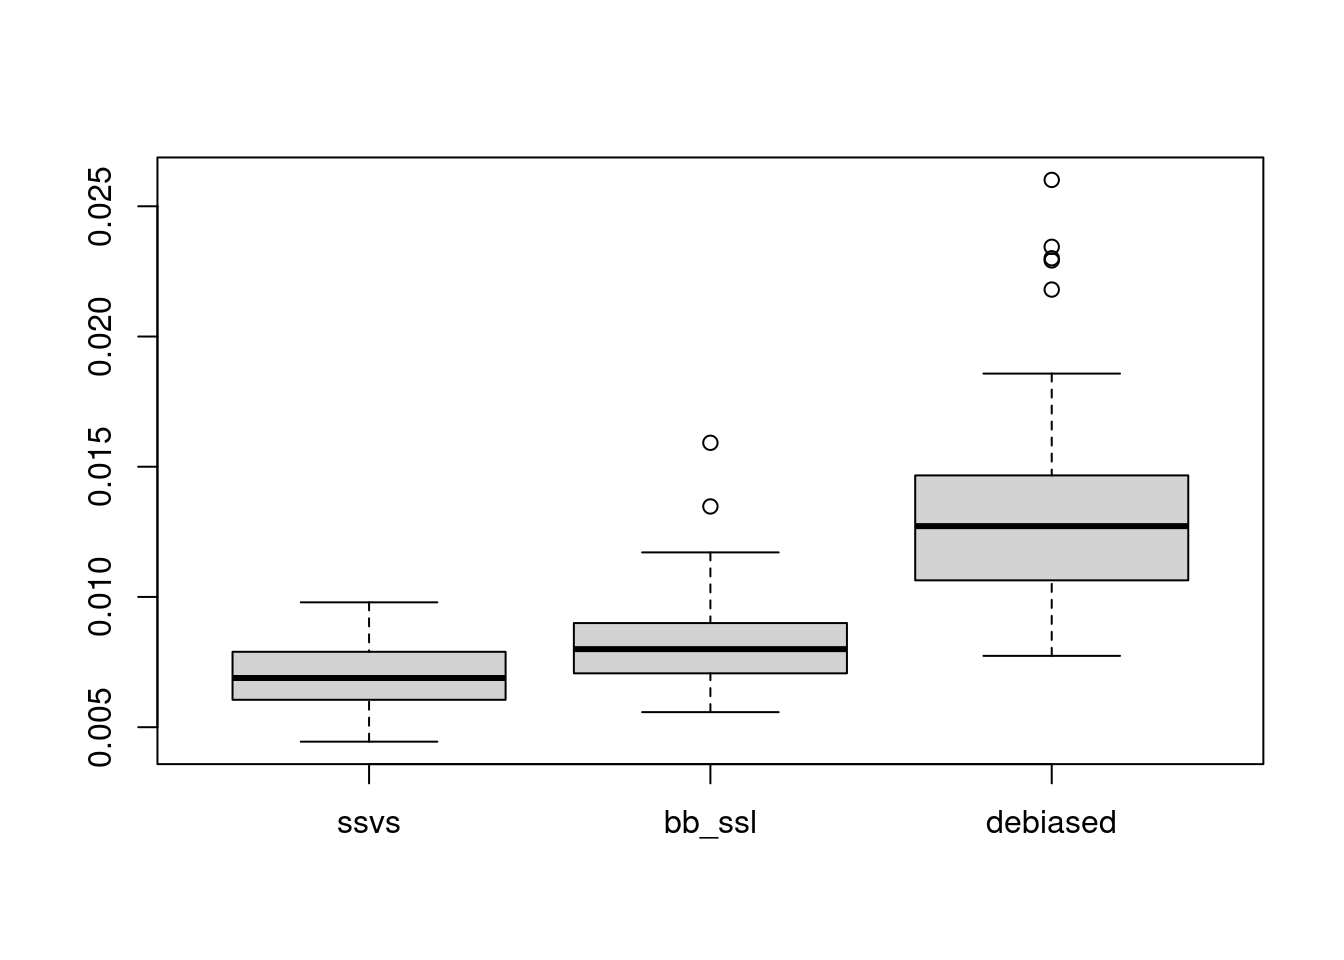
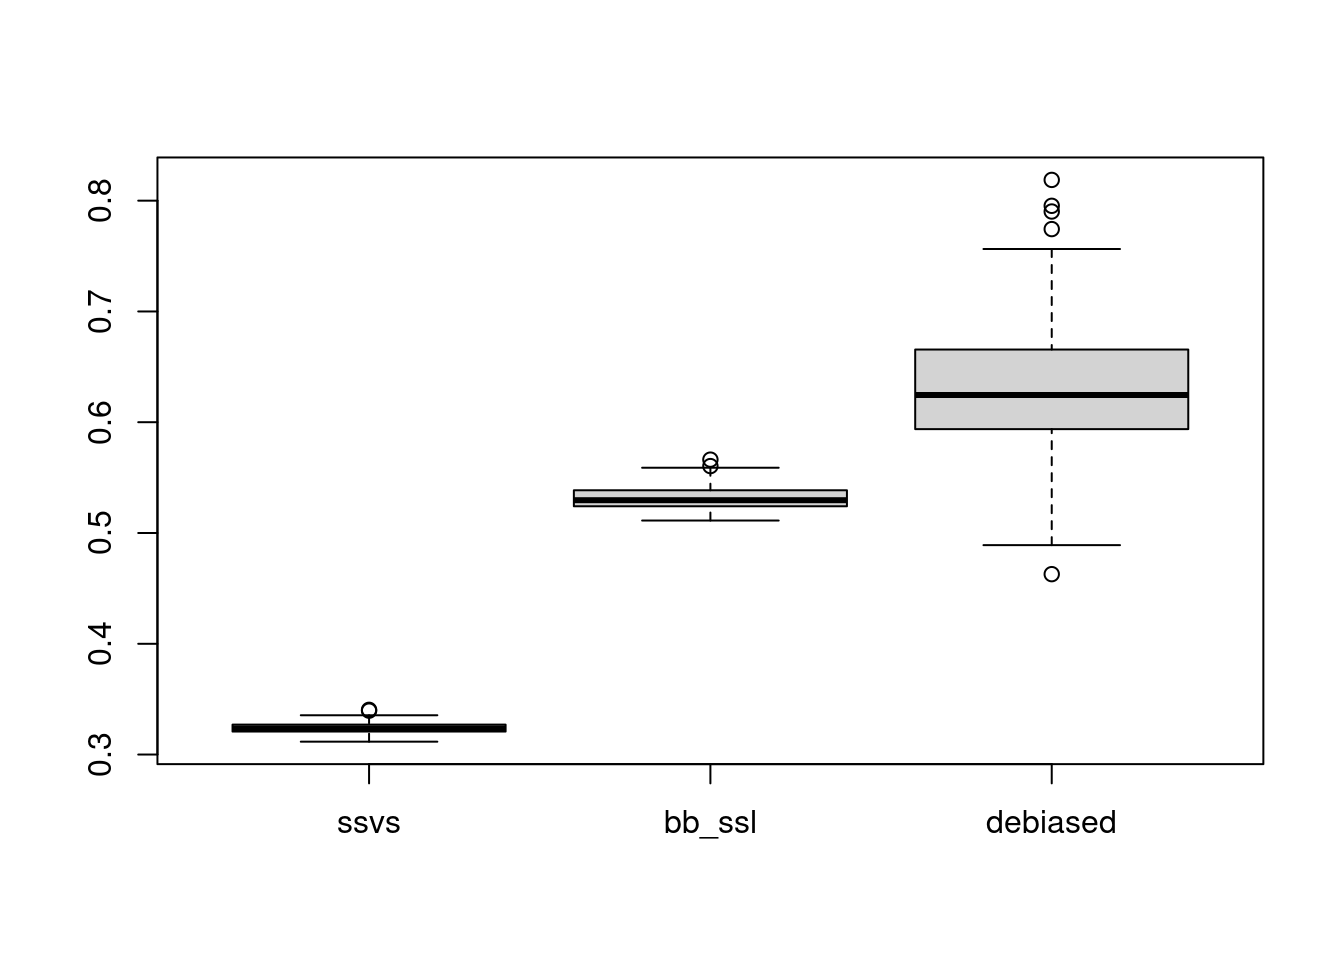
Build site.

diff --git a/docs/lfi_n100p100.html b/docs/lfi_n100p100.html
@@ -522,15 +522,15 @@ project makes it easier to run your code on other machines.</p>
 <div class="panel panel-default">
 <div class="panel-heading">
 <p class="panel-title">
-<a data-toggle="collapse" data-parent="#workflowr-checks" href="#strongRepositoryversionstrongahrefhttpsgithubcomDongyueXiemisctree99adf3be639cfb327b6bccedac6476bd4ddb93cdtargetblank99adf3ba">
+<a data-toggle="collapse" data-parent="#workflowr-checks" href="#strongRepositoryversionstrongahrefhttpsgithubcomDongyueXiemisctreebc65183b9fe4eb647b23907222f3a0684f45f7cctargetblankbc65183a">
 <span class="glyphicon glyphicon-ok text-success"
 aria-hidden="true"></span> <strong>Repository version:</strong>
-<a href="https://github.com/DongyueXie/misc/tree/99adf3be639cfb327b6bccedac6476bd4ddb93cd" target="_blank">99adf3b</a>
+<a href="https://github.com/DongyueXie/misc/tree/bc65183b9fe4eb647b23907222f3a0684f45f7cc" target="_blank">bc65183</a>
 </a>
 </p>
 </div>
 <div
[2 lines of base64/hex data omitted]
 class="panel-collapse collapse">
 <div class="panel-body">
 <p>
@@ -540,7 +540,7 @@ reproducibility.
 </p>
 <p>
 The results in this page were generated with repository version
-<a href="https://github.com/DongyueXie/misc/tree/99adf3be639cfb327b6bccedac6476bd4ddb93cd" target="_blank">99adf3b</a>.
+<a href="https://github.com/DongyueXie/misc/tree/bc65183b9fe4eb647b23907222f3a0684f45f7cc" target="_blank">bc65183</a>.
 See the <em>Past versions</em> tab to see a history of the changes made
 to the R Markdown and HTML files.
 </p>
@@ -557,17 +557,14 @@ were generated:
 Ignored files:
     Ignored:    .Rhistory
     Ignored:    .Rproj.user/
+    Ignored:    code/sslasso_code/.DS_Store
+    Ignored:    code/sslasso_code/.Rapp.history
 
 Untracked files:
-    Untracked:  analysis/p50_n200_exp.Rmd
-    Untracked:  code/__MACOSX/
-    Untracked:  code/lfi.R
-    Untracked:  code/sslasso_code/
     Untracked:  output/lfi/
 
 Unstaged changes:
-    Modified:   analysis/lfi_n50p50.Rmd
-    Modified:   analysis/spike_slab_sampling.ipynb
+    Modified:   analysis/index.Rmd
 
 </code></pre>
 <p>
@@ -618,6 +615,40 @@ Message
 Rmd
 </td>
 <td>
+<a href="https://github.com/DongyueXie/misc/blob/bc65183b9fe4eb647b23907222f3a0684f45f7cc/analysis/lfi_n100p100.Rmd" target="_blank">bc65183</a>
+</td>
+<td>
+DongyueXie
+</td>
+<td>
+2023-02-10
+</td>
+<td>
+wflow_publish("analysis/lfi_n100p100.Rmd")
+</td>
+</tr>
+<tr>
+<td>
+html
+</td>
+<td>
+<a href="https://rawcdn.githack.com/DongyueXie/misc/6955549c297aae529e1d2d88f785ccb922234bac/docs/lfi_n100p100.html" target="_blank">6955549</a>
+</td>
+<td>
+DongyueXie
+</td>
+<td>
+2023-02-10
+</td>
+<td>
+Build site.
+</td>
+</tr>
+<tr>
+<td>
+Rmd
+</td>
+<td>
 <a href="https://github.com/DongyueXie/misc/blob/99adf3be639cfb327b6bccedac6476bd4ddb93cd/analysis/lfi_n100p100.Rmd" target="_blank">99adf3b</a>
 </td>
 <td>
@@ -652,6 +683,97 @@ over 100 replicates.</p>
 <pre class="r"><code>boxplot(res$covered)
 abline(h=0.95,lty=2)</code></pre>
 <p><img src="figure/lfi_n100p100.Rmd/unnamed-chunk-2-1.png" width="672" style="display: block; margin: auto;" /></p>
+<p>
+<button type="button" class="btn btn-default btn-xs btn-workflowr btn-workflowr-fig" data-toggle="collapse" data-target="#fig-unnamed-chunk-2-1">
+Past versions of unnamed-chunk-2-1.png
+</button>
+</p>
+<div id="fig-unnamed-chunk-2-1" class="collapse">
+<div class="table-responsive">
+<table class="table table-condensed table-hover">
+<thead>
+<tr>
+<th>
+Version
+</th>
+<th>
+Author
+</th>
+<th>
+Date
+</th>
+</tr>
+</thead>
+<tbody>
+<tr>
+<td>
+<a href="https://github.com/DongyueXie/misc/blob/6955549c297aae529e1d2d88f785ccb922234bac/docs/figure/lfi_n100p100.Rmd/unnamed-chunk-2-1.png" target="_blank">6955549</a>
+</td>
+<td>
+DongyueXie
+</td>
+<td>
+2023-02-10
+</td>
+</tr>
+</tbody>
+</table>
+</div>
+</div>
+</div>
+<div id="ci-length" class="section level2">
+<h2>CI length</h2>
+<pre class="r"><code>get_ci_length = function(res){
+  n_simu = length(res)
+  ci_length = c()
+  for(i in 1:n_simu){
+    ci_length = rbind(ci_length,c(mean(apply(res[[i]]$fit_ssvs$beta_draws,2,function(z){quantile(z,0.975)})-apply(res[[i]]$fit_ssvs$beta_draws,2,function(z){quantile(z,0.025)})),
+                                  mean(apply(res[[i]]$fit_bb$beta,2,function(z){quantile(z,0.975)})-apply(res[[i]]$fit_bb$beta,2,function(z){quantile(z,0.025)})),
+                                  mean(res[[i]]$fit_debiased$up.lim - res[[i]]$fit_debiased$low.lim)))
+  }
+    colnames(ci_length) = c(&#39;ssvs&#39;,&#39;bb_ssl&#39;,&#39;debiased&#39;)
+  return(ci_length)
+}
+
+boxplot(get_ci_length(res$res))</code></pre>
+<p><img src="figure/lfi_n100p100.Rmd/unnamed-chunk-3-1.png" width="672" style="display: block; margin: auto;" /></p>
+<p>
+<button type="button" class="btn btn-default btn-xs btn-workflowr btn-workflowr-fig" data-toggle="collapse" data-target="#fig-unnamed-chunk-3-1">
+Past versions of unnamed-chunk-3-1.png
+</button>
+</p>
+<div id="fig-unnamed-chunk-3-1" class="collapse">
+<div class="table-responsive">
+<table class="table table-condensed table-hover">
+<thead>
+<tr>
+<th>
+Version
+</th>
+<th>
+Author
+</th>
+<th>
+Date
+</th>
+</tr>
+</thead>
+<tbody>
+<tr>
+<td>
+<a href="https://github.com/DongyueXie/misc/blob/6955549c297aae529e1d2d88f785ccb922234bac/docs/figure/lfi_n100p100.Rmd/unnamed-chunk-3-1.png" target="_blank">6955549</a>
+</td>
+<td>
+DongyueXie
+</td>
+<td>
+2023-02-10
+</td>
+</tr>
+</tbody>
+</table>
+</div>
+</div>
 </div>
 <div id="mse" class="section level2">
 <h2>MSE</h2>
@@ -670,7 +792,7 @@ calc_mse = function(res){
   return(mse_all)
 }
 boxplot(calc_mse(res$res))</code></pre>
-<p><img src="figure/lfi_n100p100.Rmd/unnamed-chunk-3-1.png" width="672" style="display: block; margin: auto;" /></p>
+<p><img src="figure/lfi_n100p100.Rmd/unnamed-chunk-4-1.png" width="672" style="display: block; margin: auto;" /></p>
 <br>
 <p>
 <button type="button" class="btn btn-default btn-workflowr btn-workflowr-sessioninfo" data-toggle="collapse" data-target="#workflowr-sessioninfo" style="display: block;">
